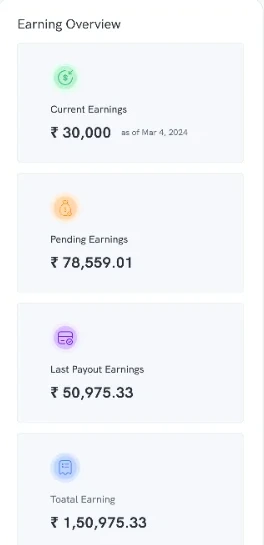
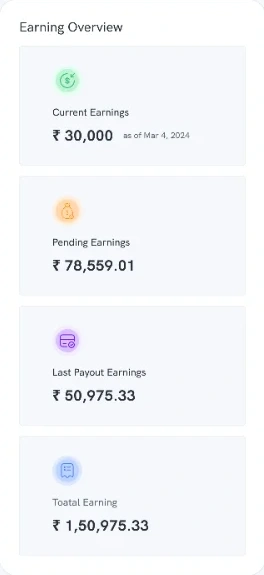
Rise Portal: screenshots re-cropped to exact card edges (dashboard earnings card with its chart, Total Leads, Earning Overview, client list) with square image corners; Evidence & insights now states what the sources showed, the three jobs behind the routine questions

diff --git a/rise-portal.html b/rise-portal.html
@@ -1382,7 +1382,7 @@ ol.flowd.vplan{margin-top:32px}
 .rp-rows{display:grid;gap:12px;margin-top:32px}
 .rp-row{display:grid;grid-template-columns:minmax(0,1.35fr) minmax(0,1fr);gap:32px;align-items:center}
 .rp-row-p{padding:24px;border-radius:8px;background:var(--l-panel);line-height:0}
-.rp-row-p img{display:block;width:100%;height:auto;border-radius:6px}
+.rp-row-p img{display:block;width:100%;height:auto;border-radius:0}
 .rp-row-t{margin:0;font:400 18px/1.35 var(--serif);color:var(--ink)}
 .rp-row-d{margin:6px 0 0;font:400 14px/1.5 var(--sans);color:var(--muted)}
 .rp-shot img{display:block;width:100%;height:auto;border-radius:6px}
@@ -1571,8 +1571,8 @@ ol.flowd.vplan{margin-top:32px}
       <p class="evg"><small>None of them could show me</small>partners working through the tasks themselves</p>
       <p class="evk" aria-hidden="true"><span class="ky">Showed</span><span class="kx">Couldn&rsquo;t show</span></p>
     </div>
-    <h2 class="say more">Three jobs sat behind the routine questions.</h2>
-    <p class="body">I organised the problem around what a partner needed to do, not around Rupeezy&rsquo;s internal teams: understand overall progress, see where each client stands, and make sense of earnings and eligibility.</p>
+    <h2 class="say more">What it showed: three jobs behind the routine questions.</h2>
+    <p class="body">Across the sources, the same three questions kept coming back. I organised the problem around them, around what a partner needed to do rather than Rupeezy&rsquo;s internal teams.</p>
     <figure class="rp-jobs">
       <div class="rp-job"><p class="rp-job-q">&ldquo;How is my partner business doing?&rdquo;</p><div><p class="rp-job-a">Dashboard</p><p class="rp-job-d">Earnings, an earnings trend, the lead funnel and payout eligibility.</p></div></div>
       <div class="rp-job"><p class="rp-job-q">&ldquo;Where is each lead in the journey?&rdquo;</p><div><p class="rp-job-a">Clients</p><p class="rp-job-d">Scannable lead and client statuses, with contact details kept private.</p></div></div>
@@ -1614,9 +1614,8 @@ ol.flowd.vplan{margin-top:32px}
     <h2 class="say more" id="sol-dashboard">Show the trend, the funnel and the payout status.</h2>
     <p class="body">The dashboard brought several questions into one view. Instead of a single headline total, it paired earnings with a trend over time and the state of every referral.</p>
     <div class="rp-rows">
-      <div class="rp-row"><div class="rp-row-p"><img src="./assets/rp/dash-summary.webp" width="590" height="140" alt="Earnings summary cards: Current Earning, Last Payout Earning and Total Earning" loading="lazy" decoding="async"></div><div class="rp-row-x"><p class="rp-row-t">Earnings at a glance</p><p class="rp-row-d">This cycle, the last payout and the running total, side by side.</p></div></div>
-      <div class="rp-row"><div class="rp-row-p"><img src="./assets/rp/dash-trend.webp" width="590" height="269" alt="An earnings bar chart over seven days with 7D, 15D and 30D range options and a tooltip for one day" loading="lazy" decoding="async"></div><div class="rp-row-x"><p class="rp-row-t">The trend behind the total</p><p class="rp-row-d">Seven, 15 or 30 days, so a change has a shape and a date.</p></div></div>
-      <div class="rp-row"><div class="rp-row-p"><img src="./assets/rp-hero-funnel-crop.webp" width="610" height="185" alt="Total Leads card split into Account Processing, Account Opened and Account Traded" loading="lazy" decoding="async"></div><div class="rp-row-x"><p class="rp-row-t">Where every referral is</p><p class="rp-row-d">Leads split by stage, so a partner can spot one that hasn&rsquo;t moved.</p></div></div>
+      <div class="rp-row"><div class="rp-row-p"><img src="./assets/rp/dash-earnings.webp" width="596" height="428" alt="The dashboard Earnings card: Current Earning, Last Payout Earning and Total Earning, then a seven-day earnings chart with 7D, 15D and 30D options" loading="lazy" decoding="async"></div><div class="rp-row-x"><p class="rp-row-t">Earnings, and the trend behind them</p><p class="rp-row-d">This cycle, the last payout and the running total, with a 7, 15 or 30-day chart beneath, so a change has a shape and a date.</p></div></div>
+      <div class="rp-row"><div class="rp-row-p"><img src="./assets/rp/dash-leads.webp" width="595" height="186" alt="Total Leads card split into Account Processing, Account Opened and Account Traded" loading="lazy" decoding="async"></div><div class="rp-row-x"><p class="rp-row-t">Where every referral is</p><p class="rp-row-d">Leads split by stage, so a partner can spot one that hasn&rsquo;t moved.</p></div></div>
     </div>
     <p class="capb">Detail from the desktop dashboard. Payout eligibility sits below these, covered further down.</p>
     <h2 class="say more" id="sol-clients">Make lead status visible, and the limits of it too.</h2>
@@ -1624,19 +1623,19 @@ ol.flowd.vplan{margin-top:32px}
     <div class="media pad rp-shot"><img src="./assets/rp-funnel.webp" width="1200" height="750" alt="My Clients on desktop: a client overview chart, Total Leads by stage, and a client list with Active Clients, Inactive Clients and Leads tabs" loading="lazy" decoding="async"></div>
     <p class="capb">My Clients on desktop.</p>
     <div class="rp-rows" style="margin-top:56px">
-      <div class="rp-row"><div class="rp-row-p"><img src="./assets/rp-masked-number-crop.webp" width="915" height="270" alt="The client list with phone numbers masked as XXXXXX7890" loading="lazy" decoding="async"></div><div class="rp-row-x"><p class="rp-row-t">Phone numbers stayed masked</p><p class="rp-row-d">Privacy came first. The trade-off: a partner who hadn&rsquo;t kept a lead&rsquo;s details had no number to follow up with.</p></div></div>
+      <div class="rp-row"><div class="rp-row-p"><img src="./assets/rp/client-list.webp" width="918" height="278" alt="The client list with Active Clients, Inactive Clients and Leads tabs, and phone numbers masked as XXXXXX7890" loading="lazy" decoding="async"></div><div class="rp-row-x"><p class="rp-row-t">Phone numbers stayed masked</p><p class="rp-row-d">Privacy came first. The trade-off: a partner who hadn&rsquo;t kept a lead&rsquo;s details had no number to follow up with.</p></div></div>
     </div>
     <h2 class="say more" id="sol-earnings">Show more than one earnings number.</h2>
     <p class="body">One total couldn&rsquo;t answer every earnings question. The earnings area paired a trend and client-level earnings with payout history, and separated <b>four totals</b> that a single number would have blurred together.</p>
     <div class="media pad rp-shot"><img src="./assets/rp-earnings.webp" width="1200" height="750" alt="My Earnings on desktop: an earnings chart against total or traded clients, a Client Earnings and Payout History table, and the Earning Overview" loading="lazy" decoding="async"></div>
     <p class="capb">My Earnings on desktop.</p>
     <figure class="rp-earn">
-      <div class="rp-earn-p"><img src="./assets/rp/earn-overview.webp" width="264" height="545" alt="Earning Overview: Current Earnings, Pending Earnings, Last Payout Earnings and Total Earning" loading="lazy" decoding="async"></div>
+      <div class="rp-earn-p"><img src="./assets/rp/earn-overview.webp" width="264" height="575" alt="Earning Overview: Current Earnings, Pending Earnings, Last Payout Earnings and Total Earning" loading="lazy" decoding="async"></div>
       <div class="rp-earn-x">
-        <div style="top:20.6%"><p class="rp-row-t">Current Earnings</p><p class="rp-row-d">This cycle so far, with an as-of date.</p></div>
-        <div style="top:44.4%"><p class="rp-row-t">Pending Earnings</p><p class="rp-row-d">Earned, not yet paid out.</p></div>
-        <div style="top:68.3%"><p class="rp-row-t">Last Payout Earnings</p><p class="rp-row-d">What the most recent payout contained.</p></div>
-        <div style="top:90.6%"><p class="rp-row-t">Total Earning</p><p class="rp-row-d">Everything earned to date.</p></div>
+        <div style="top:18.4%"><p class="rp-row-t">Current Earnings</p><p class="rp-row-d">This cycle so far, with an as-of date.</p></div>
+        <div style="top:41%"><p class="rp-row-t">Pending Earnings</p><p class="rp-row-d">Earned, not yet paid out.</p></div>
+        <div style="top:63.7%"><p class="rp-row-t">Last Payout Earnings</p><p class="rp-row-d">What the most recent payout contained.</p></div>
+        <div style="top:86.3%"><p class="rp-row-t">Total Earning</p><p class="rp-row-d">Everything earned to date.</p></div>
       </div>
     </figure>
     <h2 class="say more">Show progress toward each condition, not just a verdict.</h2>
